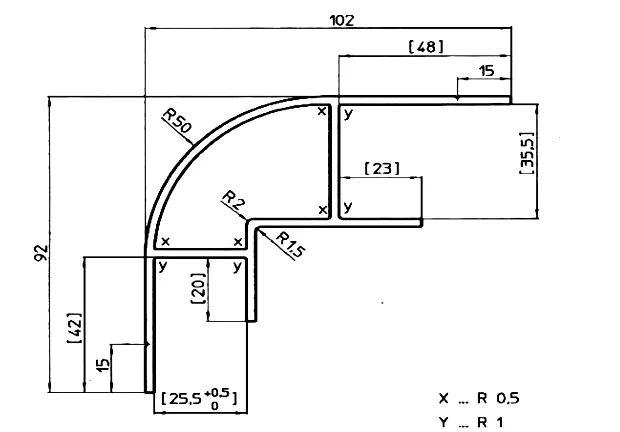
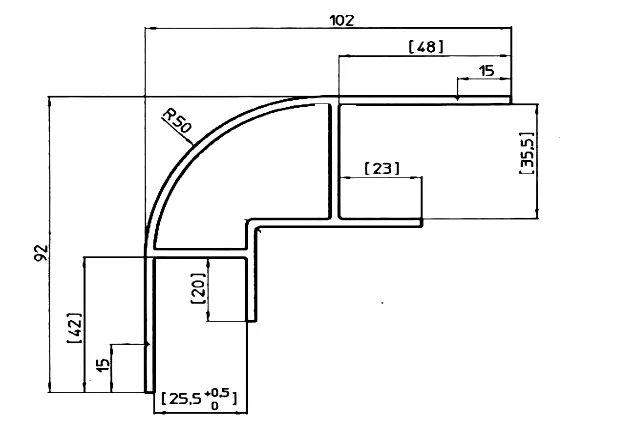
237905/n: a gyári rajzról az R2, R1,5 felirat, az x/y sarokjelek és a jelmagyarázat kivéve
Claude-Session: https://claude.ai/code/session_01GqcGcrqDWYvNfyrVUkczEM

diff --git a/scripts/termekadatok/tiszta_rajzok.py b/scripts/termekadatok/tiszta_rajzok.py
@@ -116,7 +116,12 @@ RAW = {"236825-80x80-mm-l-profil-elox": ("data/forras/236825_rajz.png", (16, 170
                                                      "Anyag": "alumínium 6060, eloxált"}),
        "237905-n-25x35-mm-ives-sarokprofil-r50": ("data/forras/237905_rajz.webp", (150, 292, 770, 724),
                                                   {"Méret": "102 × 92 mm", "Falvastagság": "2,5 mm", "Tömeg": "2,092 kg/fm",
-                                                   "Belső nyílás": "25,5 mm", "Ív": "R50", "Anyag": "alumínium 6060"}),
+                                                   "Belső nyílás": "25,5 mm", "Ív": "R50", "Anyag": "alumínium 6060"},
+                                                  # az R2, R1,5 felirat, az x / y sarokjelek és a jelmagyarázat nélkül
+                                                  [(219, 190, 246, 219), (261, 229, 310, 264), (315, 104, 328, 118),
+                                                   (342, 105, 356, 121), (315, 202, 328, 216), (341, 198, 355, 215),
+                                                   (158, 235, 171, 248), (231, 235, 244, 248), (156, 259, 169, 274),
+                                                   (230, 259, 243, 274), (420, 380, 540, 432)]),
        "237461-n-50x260-mm-l-belso-vedoprofil": ("data/forras/237461_rajz.png", (12, 136, 740, 445),
                                                  {"Méret": "50 × 260 mm", "Falvastagság": "2 mm", "Tömeg": "1,962 kg/fm",
                                                   "Anyag": "alumínium 6060"})}
@@ -925,11 +930,13 @@ def main():
         data[slug].setdefault("specs", {}).update(SPEC_FIX.get(slug, {}))
         data[slug]["specs"]["Falvastagság"] = f"{tt} mm"
         print(slug, "szürke nézetből")
-    for slug, (src, crop, specs) in RAW.items():
+    for slug, (src, crop, specs, *er) in RAW.items():
         if slug not in data:
             continue
         g = np.asarray(Image.open(ROOT / src).convert("L").crop(crop)).astype(np.float32)
         g = np.clip((g - 60) * 255 / (200 - 60), 0, 255)  # fekete vonalak, fehér háttér
+        for ex0, ey0, ex1, ey1 in (er[0] if er else ()):  # a Quadris kérésére kivett feliratok (a kivágáson belül)
+            g[ey0:ey1, ex0:ex1] = 255
         url = save_image(Image.fromarray(g.astype(np.uint8)), slug, "gyari-rajz")
         # ha a méretekből rajzolt (VECTOR) kép is van, a gyári rajz utánuk jön; különben ez az egyetlen kép
         prev = [u for u in data[slug].get("images", []) if u.endswith(("-meretrajz.webp", "-kitoltott.webp"))] if slug in VECTOR else []
